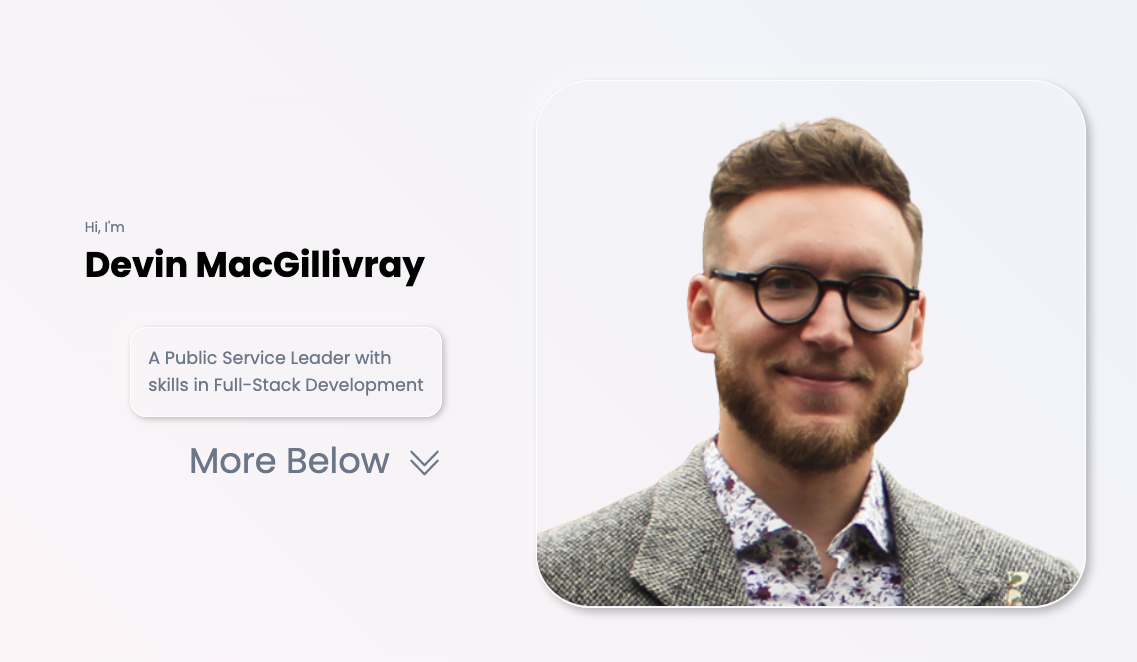
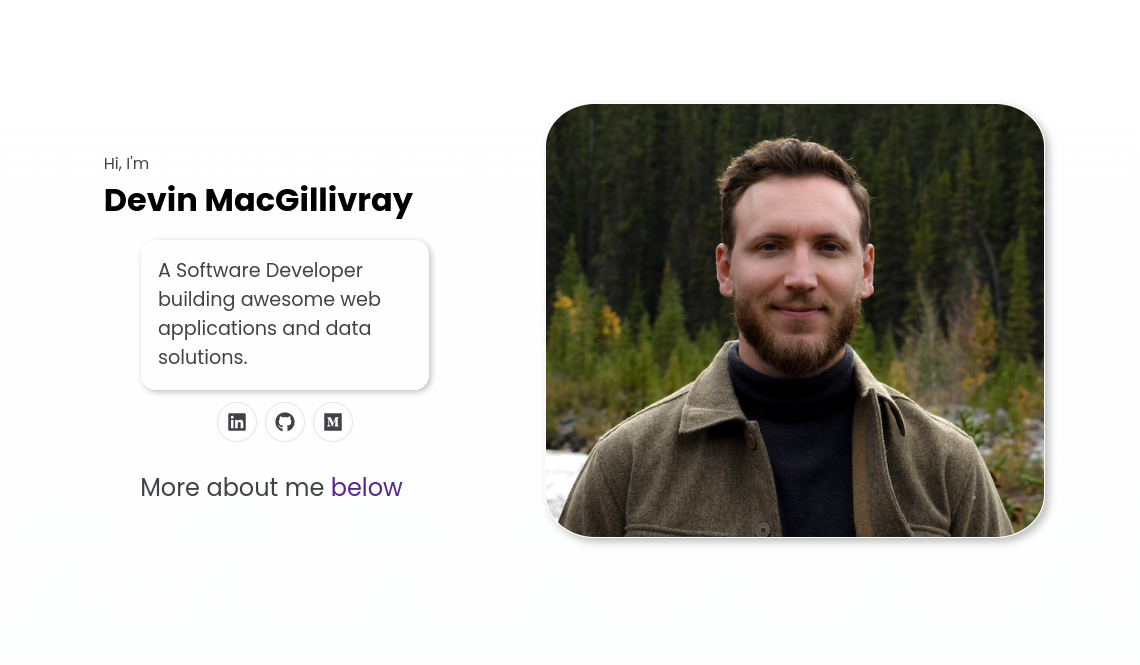
updating og landing image & Tag

diff --git a/portfolio-site/pages/index.js b/portfolio-site/pages/index.js
@@ -18,7 +18,7 @@ export default function Home(props) {
         <title>Devin MacGillivray</title>
         <meta charSet="utf-8" />
         <meta property="og:title" content="Devin MacGillivray" />
-        <meta property="og:description" content="A public service leader and tech enthusiast, with full-stack dev skills." />
+        <meta property="og:description" content="A Software Developer building awesome web applications and data solutions." />
         <meta property="og:image" content="https://www.devhmac.com/img/assets/og-img.png" />
         <meta name="twitter:card" content="https://www.devhmac.com/img/assets/og-img.png" />
 
